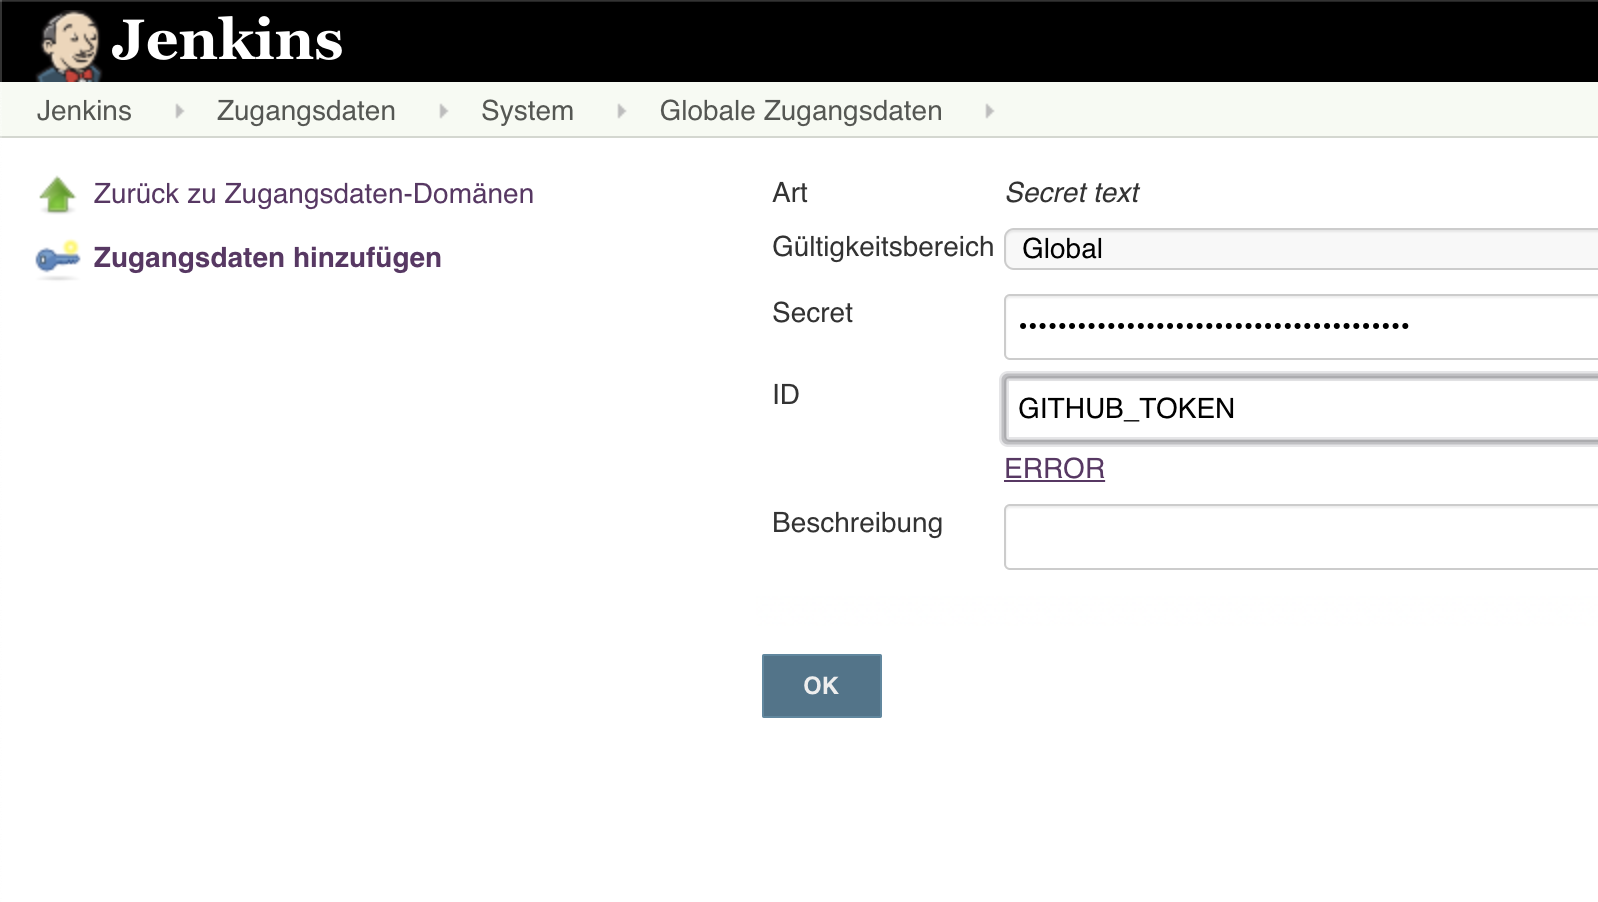
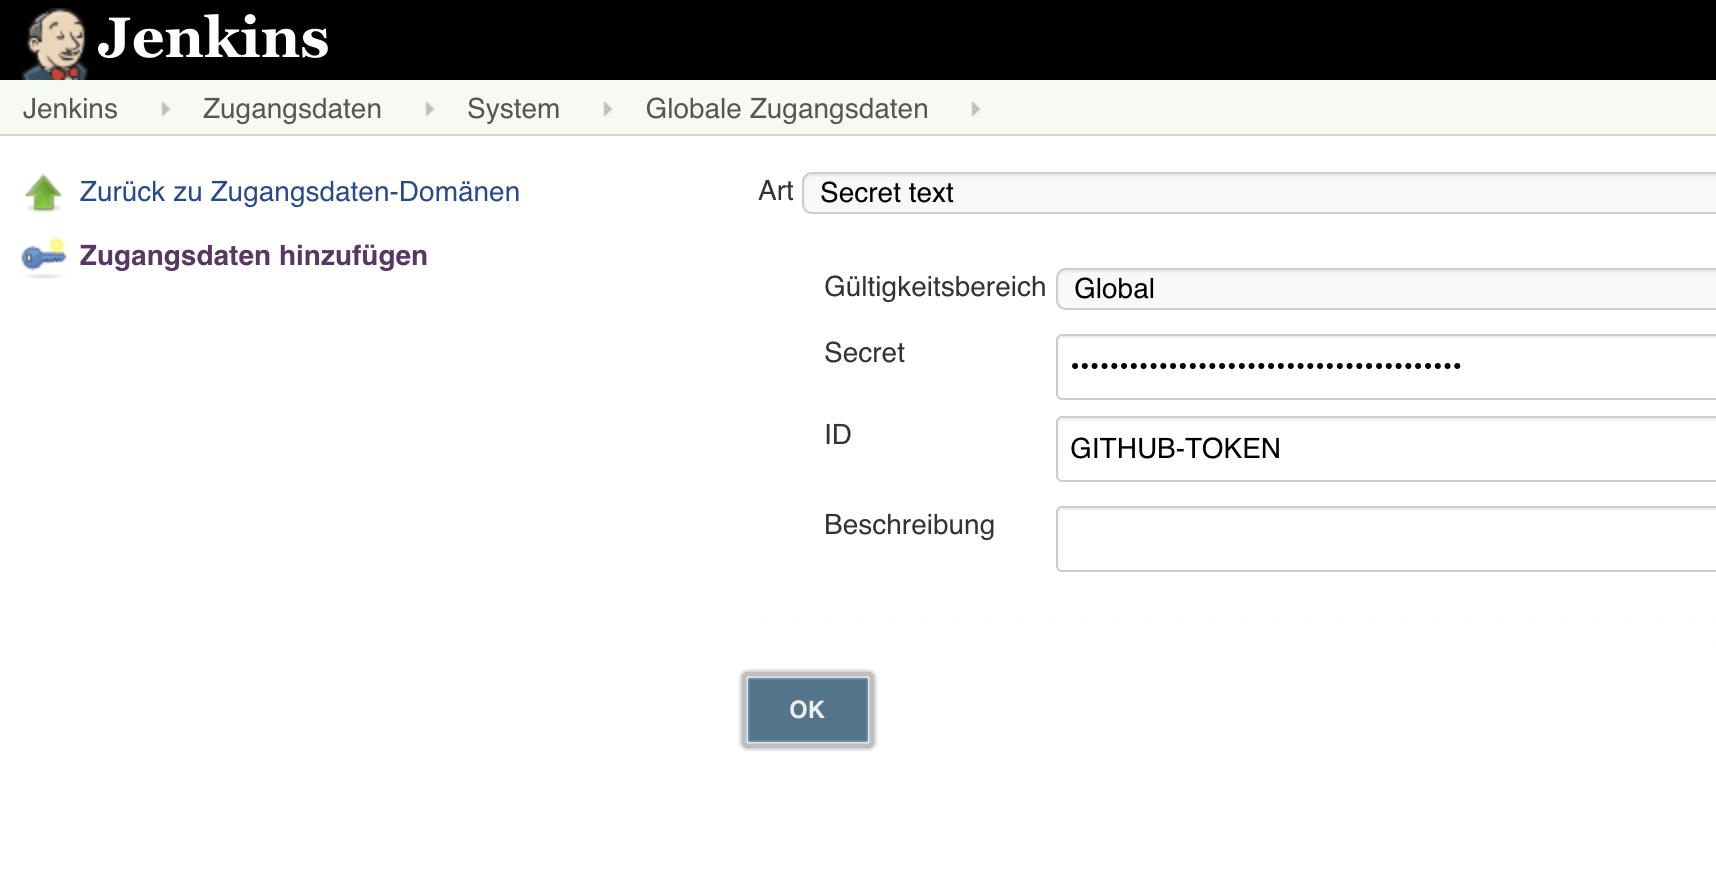
Polishing.

diff --git a/_posts/2019/2019-09-08-openshift-semantic-release-with-jenkins-maven-fabric8-delivery-pipeline.md b/_posts/2019/2019-09-08-openshift-semantic-release-with-jenkins-maven-fabric8-delivery-pipeline.md
@@ -86,7 +86,7 @@ $ oc describe bc/customer-service-pipeline -n jenkins
 Create a `generic secret` link this secret with the `builder`.
 Annotate and label it for the Jenkins sync PlugIn. And finally update the `bc/customer-service-pipeline` with this secret.
 First you have to create an `AccessToken` in your [GitHub Tokens Settings](https://github.com/settings/tokens){:target="_blank"} let it named like `openshift-source-builder`
-add 'repo' and 'user' access because this token will be used for our semantic versioning / release.
+add `repo` and `user` access because this token will be used for our semantic versioning / release.
  ![openshift-source-builder-github-token](/assets/img/2019/openshift-semantic-release-with-jenkins-maven-fabric8-delivery-pipeline/openshift-source-builder-github-token.png)
 
  
@@ -114,8 +114,8 @@ You will also find the a secret `ci-user-at-github` in the `jenkins`  project in
 
 
 ### Add Global Credentials for Semantic Release
-Used for tagging with semantic release pipeline. 
-Navigate in Jenkins to `https://<jenkins-url>/credentials/store/system/domain/_/newCredentials` and add  a `Global` Jenkins with your `GITHUB-TOKEN`
+Used for tagging with semantic release pipeline. We will use the same `openshift-source-builder` token.
+Navigate in Jenkins to `https://<jenkins-url>/credentials/store/system/domain/_/newCredentials` and add  a `Global` Jenkins `Secret text` with your `GITHUB-TOKEN`
 
 > ⚠ **GitHub Token**: Create a AccessToken with `repo,user` rights under your [GitHub Tokens Settings](https://github.com/settings/tokens) documentation.
 
